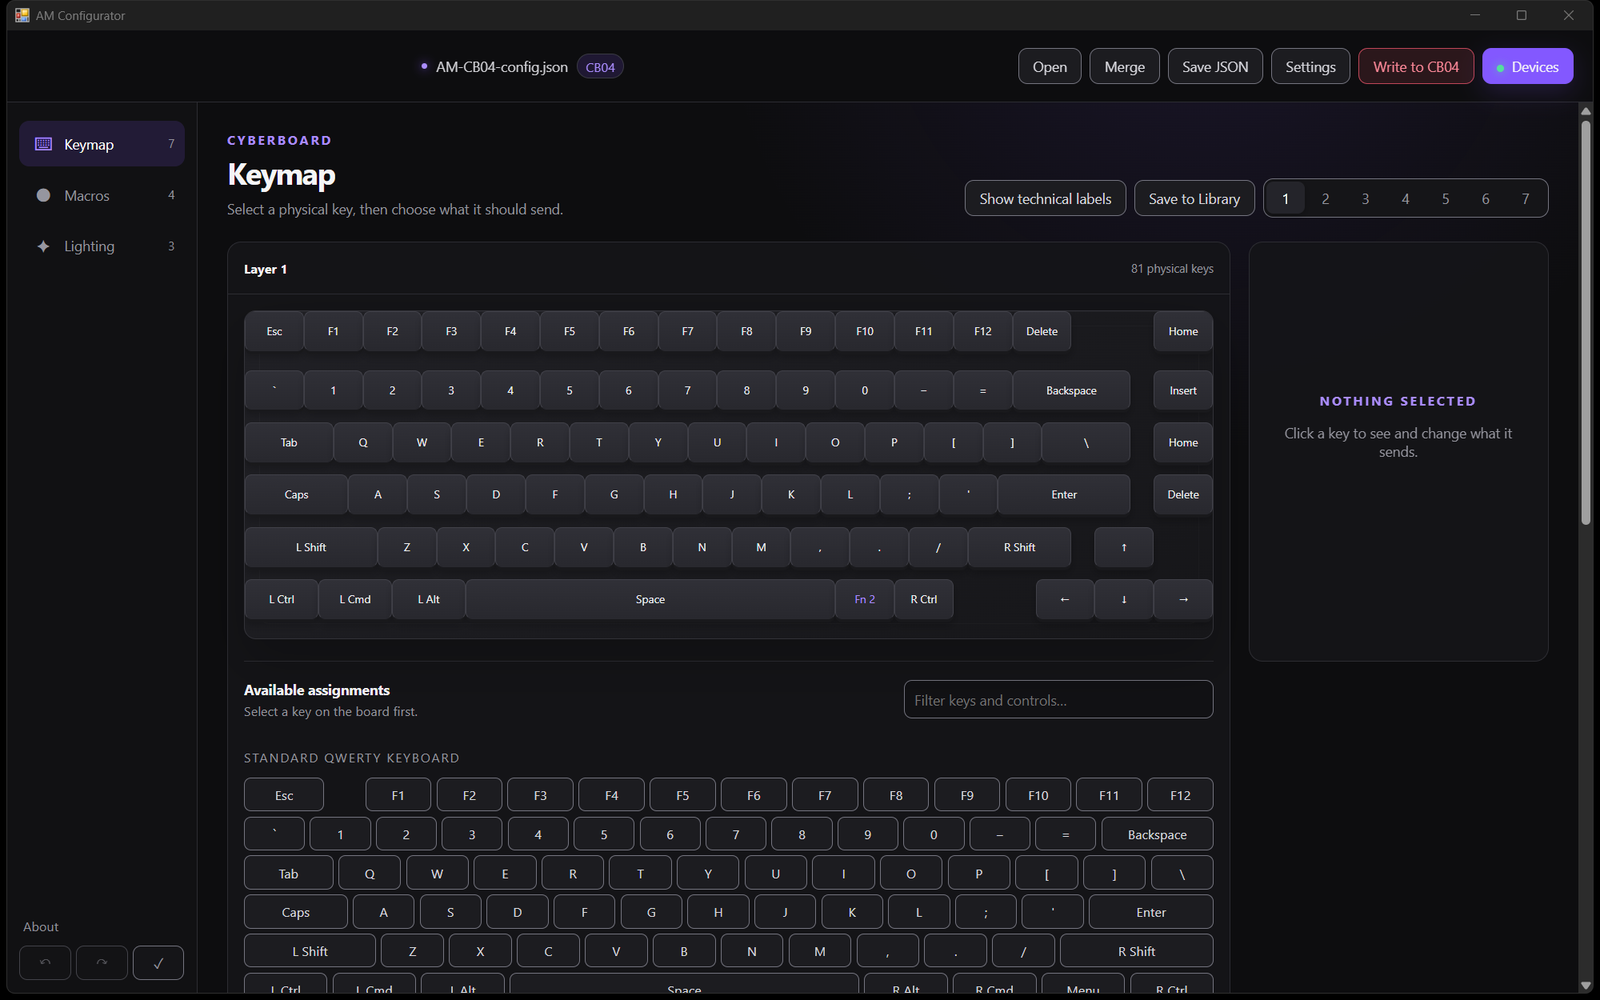
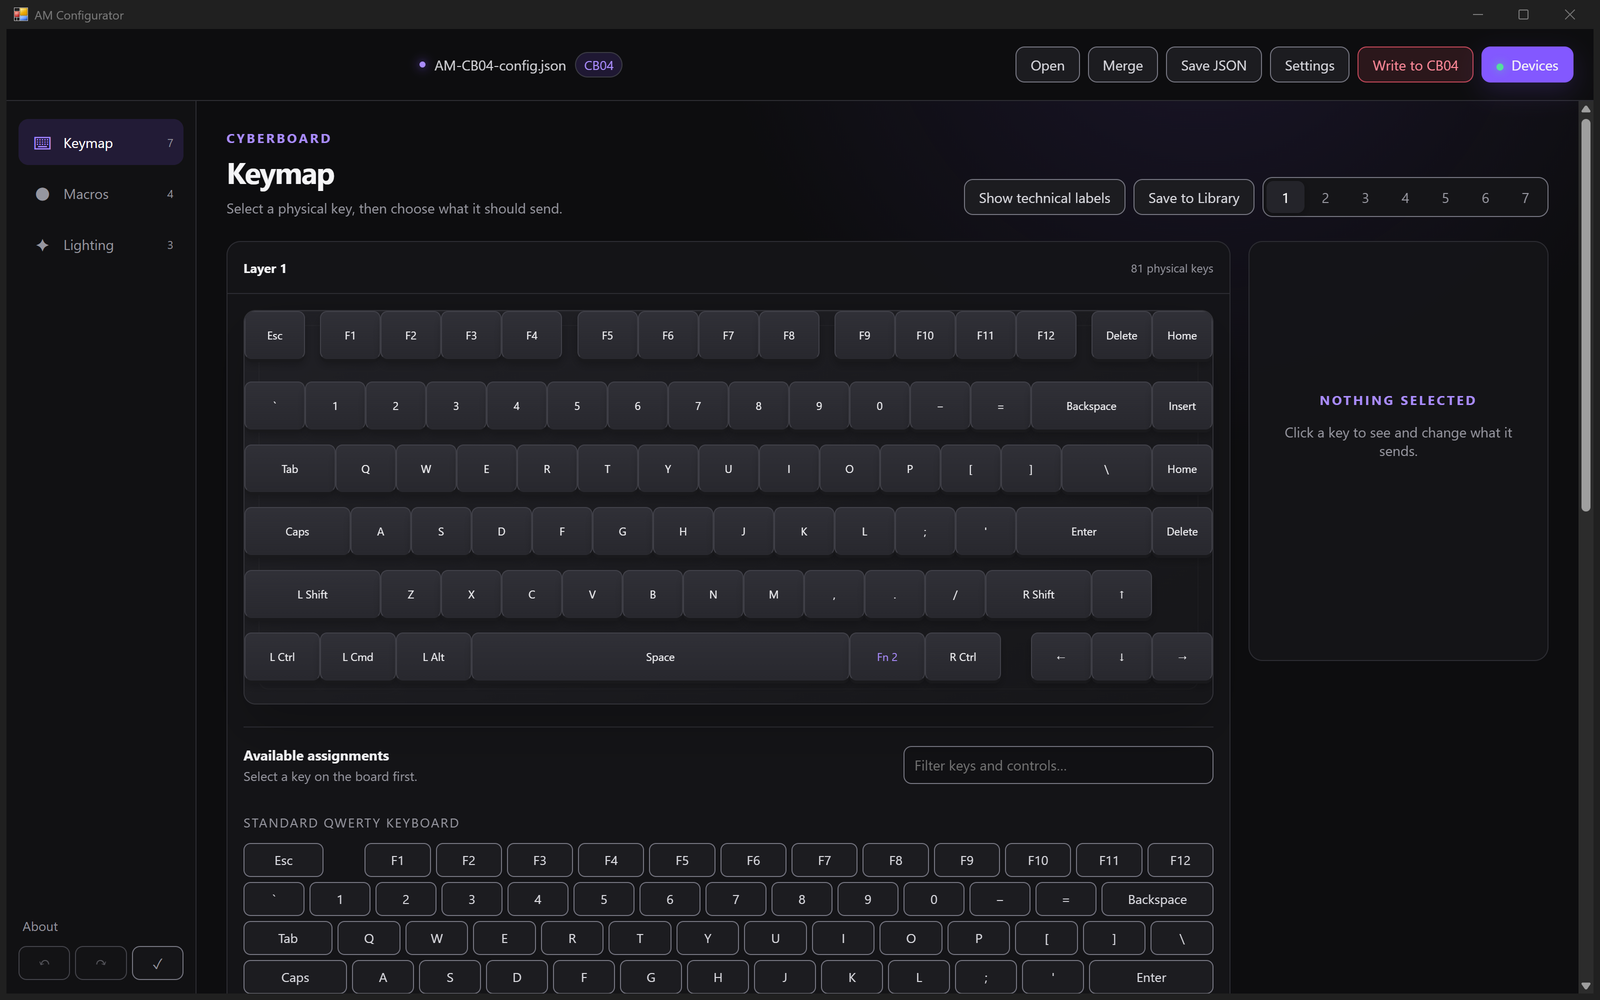
fix: draw the CyberBoard on its real physical layout
Measured from the owner's board photo: clustered F-row with the Delete/Home pair, the up arrow at 14u leaving the case notch empty, 1.25u bottom-row modifiers with a 6.25u space, and a 2.46:1 stage so 75% keycaps are not stretched. Verified by reading each rendered keycap position out of the live app.

diff --git a/am_configurator/web/app.js b/am_configurator/web/app.js
@@ -736,14 +736,17 @@ function renderAssignmentPalette(current) {
 }
 
 // CyberBoard 75% geometry authored from the CB04 matrix occupancy read off
-// the device (81 keys); 1u = 6.1% of the stage, right column at 93.9%.
+// the device (81 keys) and corrected against the owner's board photo:
+// clustered F-row with a Delete+Home pair top right, the up arrow flush in
+// the right column, and the two post-space keys widened toward the arrow
+// notch. 1u = 6.1% of the stage, right column at 93.9%.
 const CB04_LAYOUT = [
-  [0,0,0,6.1],[1,6.1,0,6.1],[2,12.2,0,6.1],[3,18.3,0,6.1],[4,24.4,0,6.1],[5,30.5,0,6.1],[6,36.6,0,6.1],[7,42.7,0,6.1],[8,48.8,0,6.1],[9,54.9,0,6.1],[10,61,0,6.1],[11,67.1,0,6.1],[12,73.2,0,6.1],[13,79.3,0,6.1],[14,93.9,0,6.1],
-  [25,0,18,6.1],[26,6.1,18,6.1],[27,12.2,18,6.1],[28,18.3,18,6.1],[29,24.4,18,6.1],[30,30.5,18,6.1],[31,36.6,18,6.1],[32,42.7,18,6.1],[33,48.8,18,6.1],[34,54.9,18,6.1],[35,61,18,6.1],[36,67.1,18,6.1],[37,73.2,18,6.1],[38,79.3,18,12.2],[39,93.9,18,6.1],
-  [50,0,34,9.15],[51,9.15,34,6.1],[52,15.25,34,6.1],[53,21.35,34,6.1],[54,27.45,34,6.1],[55,33.55,34,6.1],[56,39.65,34,6.1],[57,45.75,34,6.1],[58,51.85,34,6.1],[59,57.95,34,6.1],[60,64.05,34,6.1],[61,70.15,34,6.1],[62,76.25,34,6.1],[63,82.35,34,9.15],[64,93.9,34,6.1],
-  [75,0,50,10.7],[76,10.7,50,6.1],[77,16.8,50,6.1],[78,22.9,50,6.1],[79,29,50,6.1],[80,35.1,50,6.1],[81,41.2,50,6.1],[82,47.3,50,6.1],[83,53.4,50,6.1],[84,59.5,50,6.1],[85,65.6,50,6.1],[86,71.7,50,6.1],[88,77.8,50,13.7],[89,93.9,50,6.1],
-  [100,0,66,13.7],[102,13.7,66,6.1],[103,19.8,66,6.1],[104,25.9,66,6.1],[105,32,66,6.1],[106,38.1,66,6.1],[107,44.2,66,6.1],[108,50.3,66,6.1],[109,56.4,66,6.1],[110,62.5,66,6.1],[111,68.6,66,6.1],[112,74.7,66,10.7],[113,87.8,66,6.1],
-  [125,0,82,7.6],[126,7.6,82,7.6],[127,15.2,82,7.6],[131,22.8,82,38.2],[135,61,82,6.1],[136,67.1,82,6.1],[137,81.7,82,6.1],[138,87.8,82,6.1],[139,93.9,82,6.1],
+  [0,0,0,6.25],[1,7.8125,0,6.25],[2,14.0625,0,6.25],[3,20.3125,0,6.25],[4,26.5625,0,6.25],[5,34.375,0,6.25],[6,40.625,0,6.25],[7,46.875,0,6.25],[8,53.125,0,6.25],[9,60.9375,0,6.25],[10,67.1875,0,6.25],[11,73.4375,0,6.25],[12,79.6875,0,6.25],[13,87.5,0,6.25],[14,93.75,0,6.25],
+  [25,0,18,6.25],[26,6.25,18,6.25],[27,12.5,18,6.25],[28,18.75,18,6.25],[29,25,18,6.25],[30,31.25,18,6.25],[31,37.5,18,6.25],[32,43.75,18,6.25],[33,50,18,6.25],[34,56.25,18,6.25],[35,62.5,18,6.25],[36,68.75,18,6.25],[37,75,18,6.25],[38,81.25,18,12.5],[39,93.75,18,6.25],
+  [50,0,34,9.375],[51,9.375,34,6.25],[52,15.625,34,6.25],[53,21.875,34,6.25],[54,28.125,34,6.25],[55,34.375,34,6.25],[56,40.625,34,6.25],[57,46.875,34,6.25],[58,53.125,34,6.25],[59,59.375,34,6.25],[60,65.625,34,6.25],[61,71.875,34,6.25],[62,78.125,34,6.25],[63,84.375,34,9.375],[64,93.75,34,6.25],
+  [75,0,50,10.9375],[76,10.9375,50,6.25],[77,17.1875,50,6.25],[78,23.4375,50,6.25],[79,29.6875,50,6.25],[80,35.9375,50,6.25],[81,42.1875,50,6.25],[82,48.4375,50,6.25],[83,54.6875,50,6.25],[84,60.9375,50,6.25],[85,67.1875,50,6.25],[86,73.4375,50,6.25],[88,79.6875,50,14.0625],[89,93.75,50,6.25],
+  [100,0,66,14.0625],[102,14.0625,66,6.25],[103,20.3125,66,6.25],[104,26.5625,66,6.25],[105,32.8125,66,6.25],[106,39.0625,66,6.25],[107,45.3125,66,6.25],[108,51.5625,66,6.25],[109,57.8125,66,6.25],[110,64.0625,66,6.25],[111,70.3125,66,6.25],[112,76.5625,66,10.9375],[113,87.5,66,6.25],
+  [125,0,82,7.8125],[126,7.8125,82,7.8125],[127,15.625,82,7.8125],[131,23.4375,82,39.0625],[135,62.5,82,7.8125],[136,70.3125,82,7.8125],[137,81.25,82,6.25],[138,87.5,82,6.25],[139,93.75,82,6.25],
 ];
 
 function activeLayout() {

diff --git a/am_configurator/web/style.css b/am_configurator/web/style.css
@@ -410,6 +410,9 @@ button:focus-visible, input:focus-visible, select:focus-visible, textarea:focus-
 .keycap.vendor { color: var(--violet-2); }
 .keycap span { opacity: .75; font-size: 10px; margin-top: 3px; }
 .keyboard-stage.afa .keycap { height: 10.7%; width: 3.8%; min-width: 25px; min-height: 25px; }
+/* A 75% board is 16u wide by 6.5u tall; the shared 2.95 stage is sized for
+   the wider Relic and stretches CyberBoard keycaps. */
+.keyboard-stage.cyber { aspect-ratio: 2.46 / 1; }
 
 .inspector { min-height: 420px; position: sticky; top: 20px; }
 .inspector-empty { min-height: 380px; display: grid; place-items: center; color: var(--muted); text-align: center; padding: 35px; }
